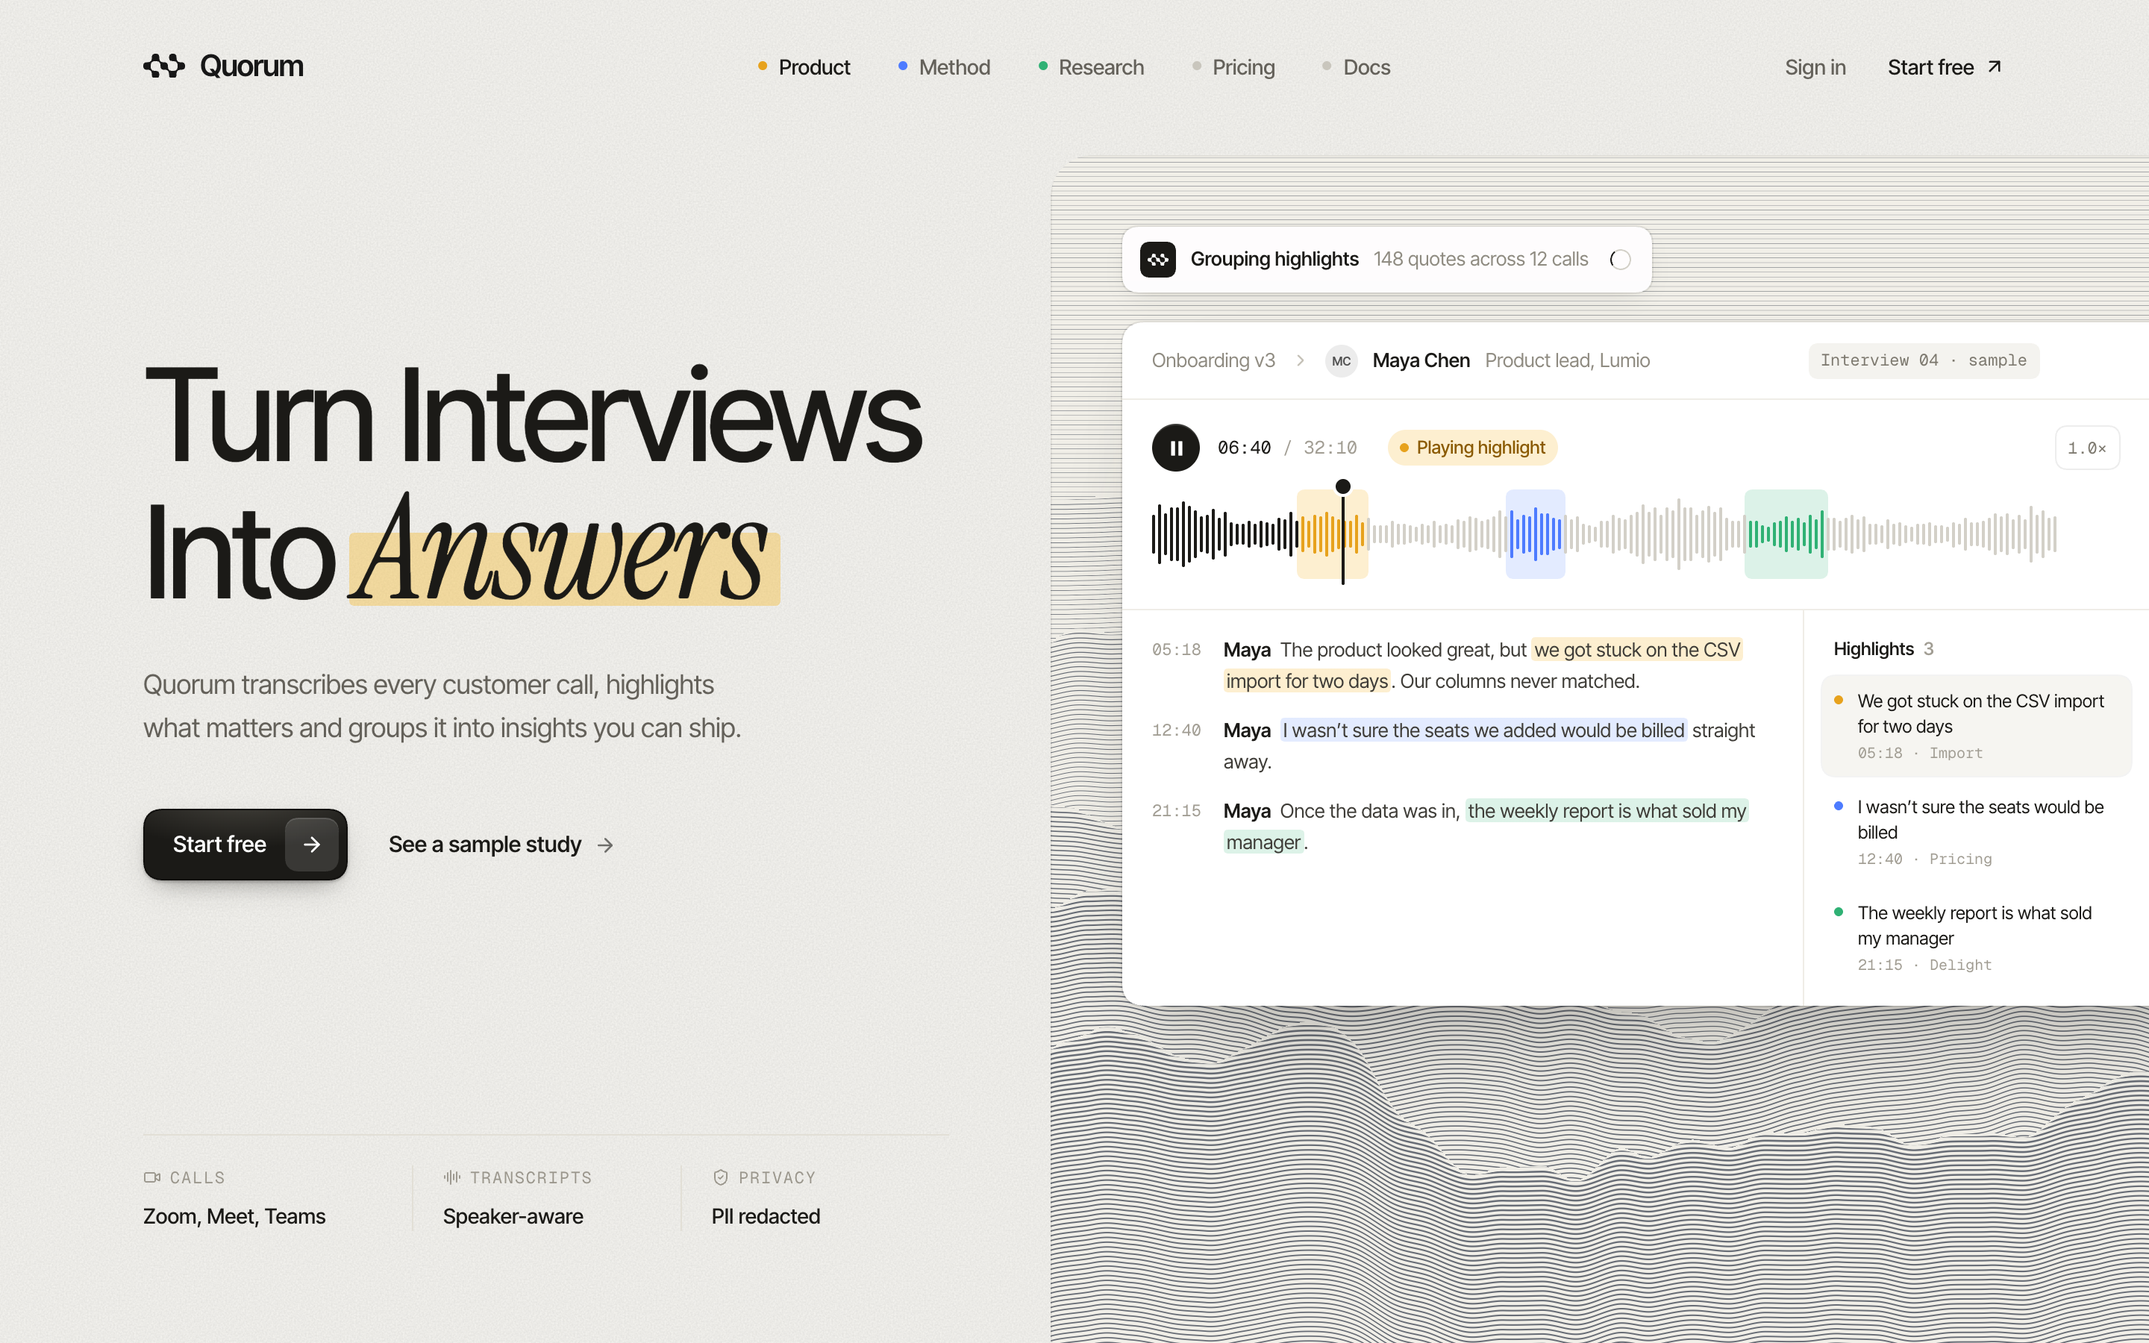
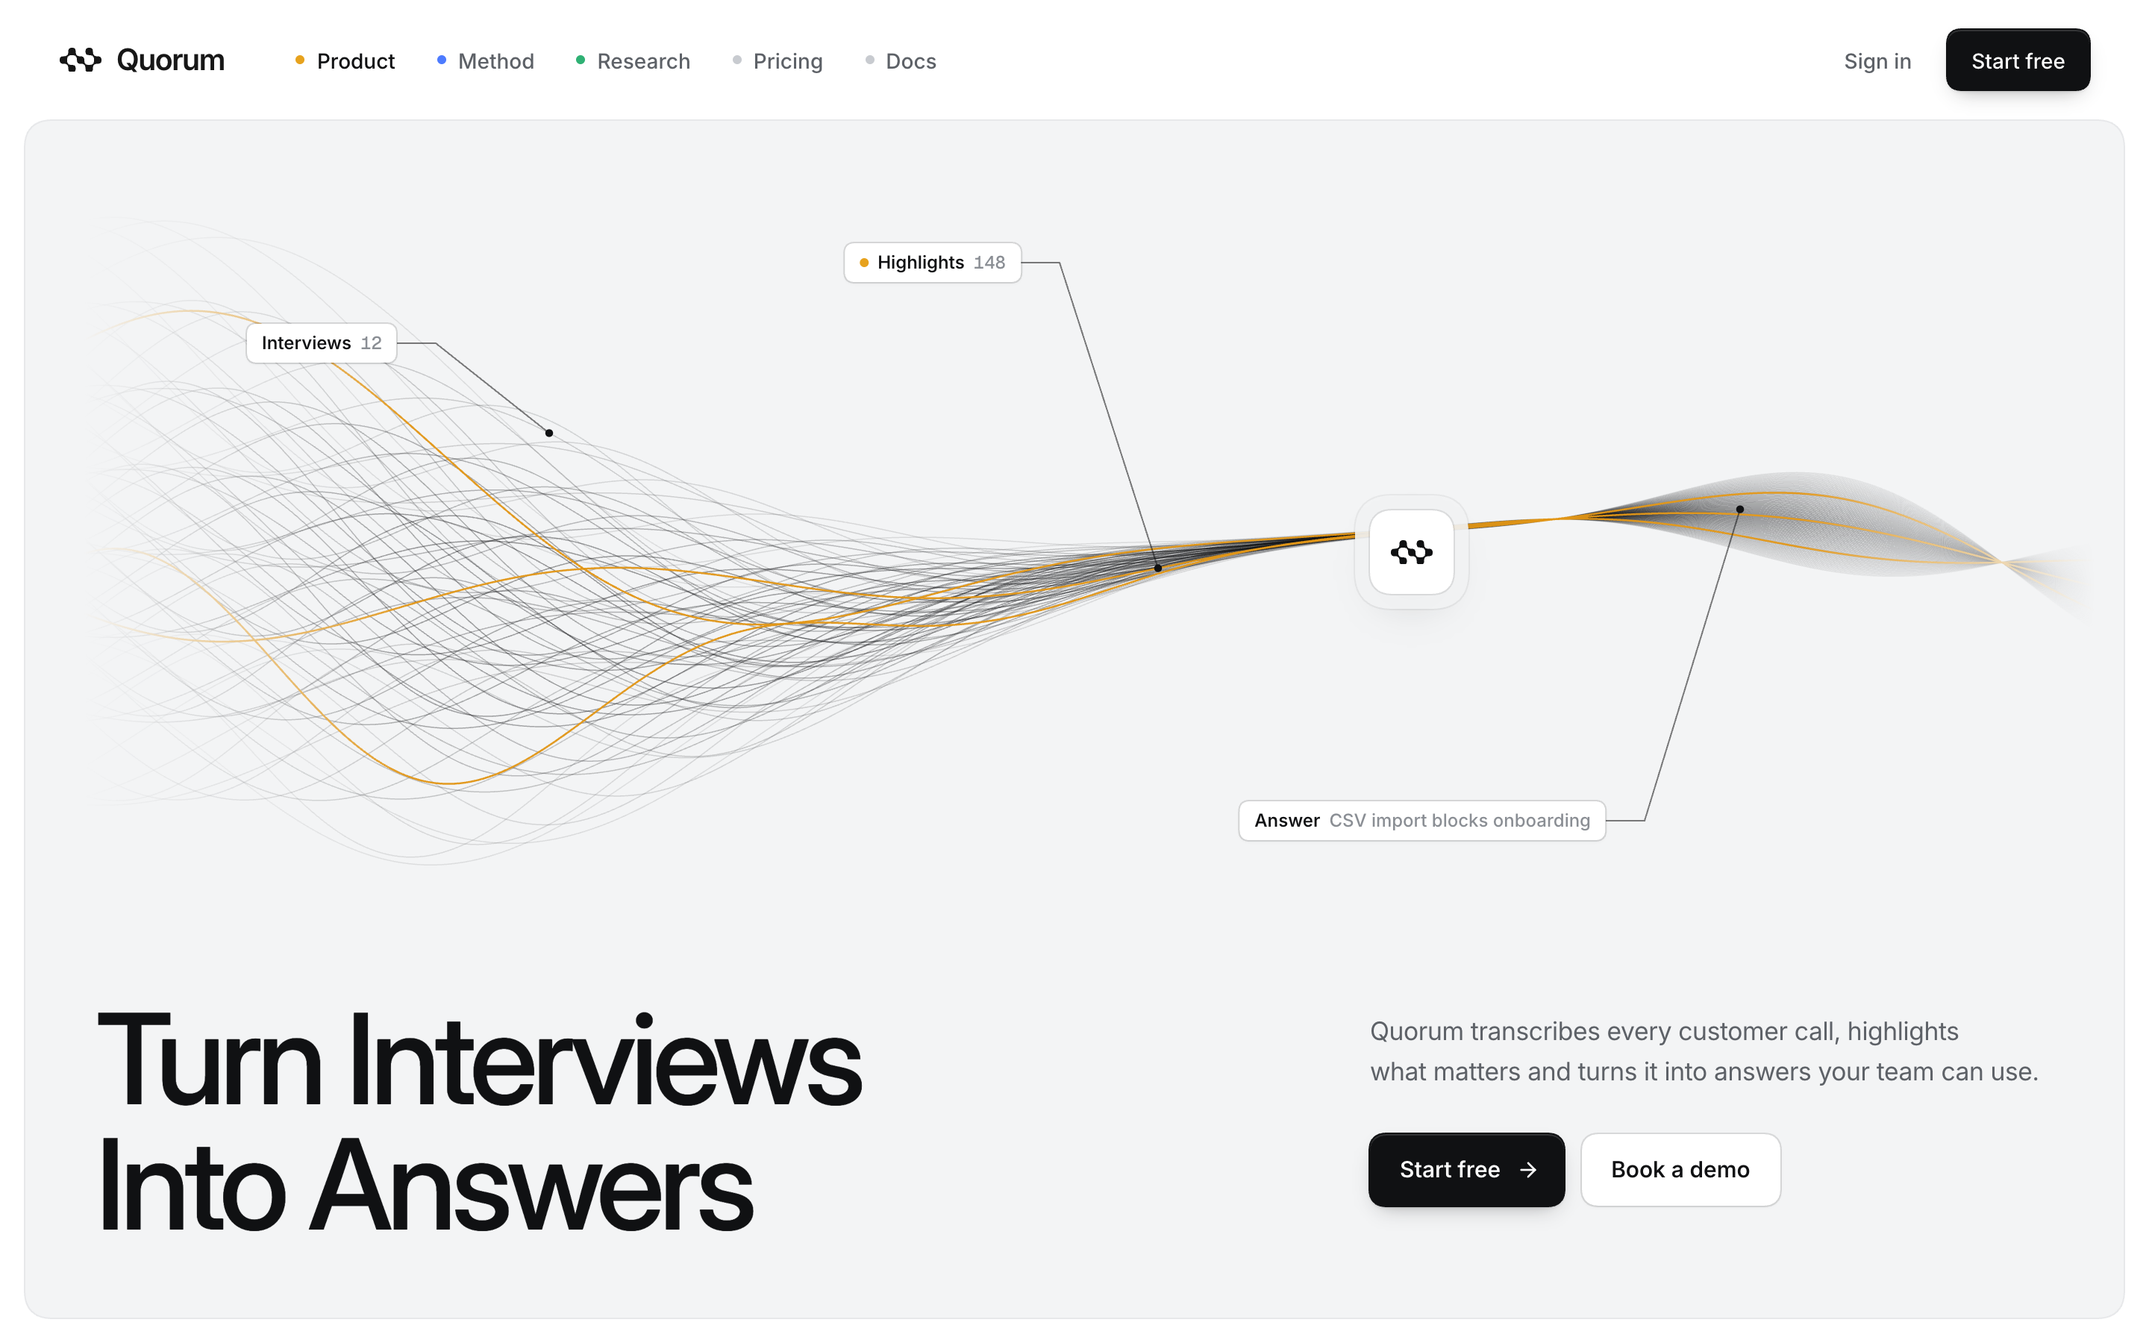
Quorum hero v4: clean Marcel/Altrina grammar (fine-line ribbon converging through the mark, bottom-left headline, square buttons); founder rule for clean/simple heroes

diff --git a/work/quorum/app/src/HeroV4.tsx b/work/quorum/app/src/HeroV4.tsx
@@ -1,0 +1,82 @@
+// Quorum hero v4 (founder 2026-10-15: "completely different... clean modern simple, Marcel, Basit style"). Marcel Kargul's
+// Altrina grammar: white page, one inset light panel; the art is a fine-line ribbon (many voices -> one answer through
+// the Quorum node) across the top with three labelled points; the headline sits bottom-left at regular weight, the
+// subtitle and two square buttons bottom-right on the node's axis. One ink, one amber for the highlighted strands.
+import type { ReactNode } from 'react'
+import { motion, MotionConfig } from 'motion/react'
+import { ArrowRight } from 'lucide-react'
+import { ease } from './motion'
+import { TAG } from './Product'
+import QuorumLogo, { QuorumMark } from './QuorumLogo'
+import Ribbon, { NODE } from './Ribbon'
+
+const T = { nav: 0.1, panel: 0.15, ribbon: 0.35, node: 1.0, h1: 0.45, sub: 0.8, cta: 0.92, chips: 2.0 }
+const INK = '#101113', SUB = '#5d6167'
+const PANEL = { x: 16, y: 80, w: 1408, h: 804 }
+const LABELS = [
+  { i: 9, x: 352, lx: 250, ly: 150, side: 'r', text: <>Interviews <b className="font-mono font-[500] text-[#8a8e94]">12</b></> },
+  { i: 35, x: 760, lx: 668, ly: 96, side: 'r', text: <><span className="size-1.5 rounded-full" style={{ background: TAG.import.dot }} />Highlights <b className="font-mono font-[500] text-[#8a8e94]">148</b></> },
+  { i: 40, x: 1150, lx: 1060, ly: 470, side: 'r', text: <>Answer <b className="font-[500] text-[#8a8e94]">CSV import blocks onboarding</b></> },
+]
+
+const Up = ({ at, y = 16, className = '', children }: { at: number; y?: number; className?: string; children: ReactNode }) => (
+  <motion.div className={className} initial={{ opacity: 0.01, y, filter: 'blur(6px)' }} animate={{ opacity: 1, y: 0, filter: 'blur(0px)' }}
+    transition={{ y: { delay: at, duration: 1.1, ease: ease.reveal }, opacity: { delay: at, duration: 0.8, ease: ease.outQuint }, filter: { delay: at, duration: 0.8 } }}>{children}</motion.div>
+)
+const Wd = ({ i, children }: { i: number; children: ReactNode }) => (
+  <motion.span className="inline-block" initial={{ opacity: 0.01, y: 40, filter: 'blur(8px)' }} animate={{ opacity: 1, y: 0, filter: 'blur(0px)' }}
+    transition={{ y: { delay: T.h1 + i * 0.07, duration: 1.2, ease: ease.reveal }, opacity: { delay: T.h1 + i * 0.07, duration: 0.8 }, filter: { delay: T.h1 + i * 0.07, duration: 0.8 } }}>{children}</motion.span>
+)
+
+function Nav() {
+  const links: [string, string][] = [['Product', TAG.import.dot], ['Method', TAG.pricing.dot], ['Research', TAG.delight.dot], ['Pricing', '#c8cbd0'], ['Docs', '#c8cbd0']]
+  return (
+    <header className="absolute inset-x-[40px] top-0 z-30 flex h-[80px] items-center">
+      <Up at={T.nav} y={-8}><a href="#" aria-label="Quorum home" className="flex h-10 items-center"><QuorumLogo /></a></Up>
+      <Up at={T.nav + 0.05} y={-8} className="ml-12">
+        <nav aria-label="Main"><ul className="flex items-center gap-7 text-[14px] font-[500]">
+          {links.map(([l, c], i) => <li key={l}><a href="#" className={`group flex h-10 items-center gap-2 transition-colors duration-200 ${i === 0 ? 'text-[#101113]' : 'text-[#5d6167] hover:text-[#101113]'}`}><span className="size-[6px] rounded-full transition-transform duration-200 group-hover:scale-125" style={{ background: c }} />{l}</a></li>)}
+        </ul></nav>
+      </Up>
+      <Up at={T.nav + 0.1} y={-8} className="ml-auto flex items-center gap-6 text-[14px] font-[500]">
+        <a href="#" className="flex h-10 items-center text-[#5d6167] transition-colors duration-200 hover:text-[#101113]">Sign in</a>
+        <a href="#" className="q-ink press flex h-10 items-center rounded-[10px] px-4 text-white">Start free</a>
+      </Up>
+    </header>
+  )
+}
+
+export default function HeroV4() {
+  return (
+    <MotionConfig reducedMotion="user">
+      <div className="relative mx-auto h-[900px] w-[1440px] overflow-hidden bg-white" style={{ color: INK, fontFamily: '"Inter Variable", system-ui, sans-serif', fontOpticalSizing: 'auto', fontFeatureSettings: '"cv11", "ss01"' }}>
+        <Nav />
+        <motion.section className="absolute overflow-hidden rounded-[20px] bg-[#f3f4f5] shadow-[inset_0_0_0_1px_#e7e8ea]" style={{ left: PANEL.x, top: PANEL.y, width: PANEL.w, height: PANEL.h }}
+          initial={{ opacity: 0 }} animate={{ opacity: 1 }} transition={{ delay: T.panel, duration: 0.8 }}>
+          <Ribbon at={T.ribbon} labels={LABELS.map(({ i, x, lx, ly }) => ({ i, x, lx, ly }))} />
+          {/* node */}
+          <motion.div className="absolute grid size-[56px] place-items-center rounded-[16px] bg-white" style={{ left: NODE.x - 28, top: NODE.y - 28, boxShadow: '0 0 0 1px rgba(16,17,19,0.1), 0 0 0 10px rgba(243,244,245,0.9), 0 0 0 11px rgba(16,17,19,0.06), 0 12px 28px -10px rgba(16,17,19,0.25)' }}
+            initial={{ opacity: 0, scale: 0.6 }} animate={{ opacity: 1, scale: 1 }} transition={{ delay: T.node, duration: 0.9, ease: ease.outExpo }}>
+            <QuorumMark width={28} />
+          </motion.div>
+          {/* labels */}
+          {LABELS.map((l, i) => (
+            <motion.span key={i} className="absolute flex h-[26px] items-center gap-1.5 whitespace-nowrap rounded-[7px] bg-white px-2.5 text-[12px] font-[550]" style={{ left: l.lx, top: l.ly - 13, translateX: l.side === 'r' ? '-100%' : 0, boxShadow: '0 0 0 1px rgba(16,17,19,0.13), 0 1px 2px rgba(16,17,19,0.05)' }}
+              initial={{ opacity: 0, y: 6 }} animate={{ opacity: 1, y: 0 }} transition={{ delay: T.chips + i * 0.12, duration: 0.6, ease: ease.outQuint }}>{l.text}</motion.span>
+          ))}
+          {/* copy */}
+          <h1 className="absolute left-[48px] top-[588px] text-[84px] font-[500] leading-[1] tracking-[-0.045em]">
+            <Wd i={0}>Turn</Wd> <Wd i={1}>Interviews</Wd><br /><Wd i={2}>Into</Wd> <Wd i={3}>Answers</Wd>
+          </h1>
+          <div className="absolute top-[598px]" style={{ left: NODE.x - 28 }}>
+            <Up at={T.sub}><p className="text-[17px] leading-[27px] tracking-[-0.01em]" style={{ color: SUB }}>Quorum transcribes every customer call, highlights<br />what matters and turns it into answers your team can use.</p></Up>
+            <Up at={T.cta} className="mt-7 flex items-center gap-3 text-[15px] font-[550]">
+              <a href="#" className="q-ink press group flex h-12 items-center gap-2.5 rounded-[12px] pl-5 pr-4 text-white">Start free<ArrowRight size={16} strokeWidth={2} className="transition-transform duration-300 group-hover:translate-x-0.5" /></a>
+              <a href="#" className="q-white press flex h-12 items-center rounded-[12px] px-5">Book a demo</a>
+            </Up>
+          </div>
+        </motion.section>
+      </div>
+    </MotionConfig>
+  )
+}

diff --git a/work/quorum/app/src/Ribbon.tsx b/work/quorum/app/src/Ribbon.tsx
@@ -1,0 +1,74 @@
+// Quorum hero v4 art (Marcel Kargul's Altrina grammar, our own story): ~70 hairline strands, one per voice, arrive loose
+// and out of phase from the left, converge through the Quorum node and leave as one calm bundle: the answer. Three strands
+// are amber (the highlighted quotes) and stay visible through the knot. Labels hang off the ribbon on elbow leaders.
+// Canvas 2D at device pixel ratio; draws in left to right on load, then breathes slowly. Reduced motion: one still frame.
+import { useEffect, useRef } from 'react'
+
+export const W = 1408, H = 560
+export const NODE = { x: 930, y: 290 }
+const N = 72, HOT = new Set([14, 35, 55])
+const sm = (a: number, b: number, x: number) => { const t = Math.min(1, Math.max(0, (x - a) / (b - a))); return t * t * (3 - 2 * t) }
+
+/** y of strand i at x, time t (also used to anchor the label leaders) */
+export function strandY(i: number, x: number, t: number) {
+  const s = (i / (N - 1)) - 0.5
+  const L = 1 - sm(60, NODE.x, x)
+  const R = sm(NODE.x, W - 40, x)
+  const shared = Math.sin(x * 0.0062 - t * 0.35) * 54 * (0.35 + 0.65 * L) + Math.sin(x * 0.0021 + 1.2) * 40 * L
+  const own = Math.sin(x * (0.009 + (i % 7) * 0.0009) + i * 0.47 + t * 0.6) * 70 * Math.pow(L, 1.1)
+  const spread = s * 300 * Math.pow(L, 1.35) + s * (4 + 92 * R) * Math.cos(x * 0.0105 - t * 0.4 - 0.9)
+  const tail = Math.sin(x * 0.006 - t * 0.3) * 46 * R
+  return NODE.y + shared * (1 - R) + own + spread + tail
+}
+
+export default function Ribbon({ at = 0.4, labels }: { at?: number; labels: { i: number; x: number; lx: number; ly: number }[] }) {
+  const ref = useRef<HTMLCanvasElement>(null)
+  useEffect(() => {
+    const cv = ref.current!, dpr = window.devicePixelRatio || 1
+    cv.width = W * dpr; cv.height = H * dpr
+    const g = cv.getContext('2d')!
+    g.scale(dpr, dpr)
+    const still = matchMedia('(prefers-reduced-motion: reduce)').matches
+    const t0 = performance.now(); let raf = 0
+    const draw = (now: number) => {
+      const s = (now - t0) / 1000, t = still ? 2 : s
+      const k = still ? 1 : Math.min(1, Math.max(0, (s - at) / 2.0)), reveal = 40 + (1 - Math.pow(1 - k, 3)) * (W + 40)
+      g.clearRect(0, 0, W, H)
+      for (let pass = 0; pass < 2; pass++) {
+        for (let i = 0; i < N; i++) {
+          const hot = HOT.has(i)
+          if ((pass === 1) !== hot) continue
+          const sp = Math.abs(i / (N - 1) - 0.5) * 2
+          g.beginPath()
+          for (let x = 40; x <= Math.min(reveal, W - 20); x += 4) {
+            const y = strandY(i, x, t)
+            x === 40 ? g.moveTo(x, y) : g.lineTo(x, y)
+          }
+          g.lineWidth = hot ? 1.25 : 0.75
+          g.strokeStyle = hot ? 'rgba(226, 150, 22, 0.95)' : `rgba(16, 17, 19, ${0.1 + 0.32 * (1 - sp)})`
+          g.stroke()
+        }
+      }
+      g.save(); g.globalCompositeOperation = 'destination-out'
+      const lg = g.createLinearGradient(40, 0, 260, 0); lg.addColorStop(0, 'rgba(0,0,0,1)'); lg.addColorStop(1, 'rgba(0,0,0,0)')
+      g.fillStyle = lg; g.fillRect(0, 0, 260, H)
+      const rg = g.createLinearGradient(W - 220, 0, W - 20, 0); rg.addColorStop(0, 'rgba(0,0,0,0)'); rg.addColorStop(1, 'rgba(0,0,0,1)')
+      g.fillStyle = rg; g.fillRect(W - 220, 0, 220, H)
+      g.restore()
+      const la = still ? 1 : Math.min(1, Math.max(0, (s - at - 1.6) / 0.6))
+      if (la > 0) {
+        g.save(); g.globalAlpha = la; g.strokeStyle = 'rgba(16,17,19,0.55)'; g.fillStyle = '#101113'; g.lineWidth = 1
+        for (const l of labels) {
+          const py = strandY(l.i, l.x, t), ex = l.lx + (l.x > l.lx ? 26 : -26)
+          g.beginPath(); g.moveTo(l.lx, l.ly); g.lineTo(ex, l.ly); g.lineTo(l.x, py); g.stroke()
+          g.beginPath(); g.arc(l.x, py, 2.6, 0, Math.PI * 2); g.fill()
+        }
+        g.restore()
+      }
+      if (!still) raf = requestAnimationFrame(draw)
+    }
+    raf = requestAnimationFrame(draw)
+    return () => cancelAnimationFrame(raf)
+  }, [at, labels])
+  return <canvas ref={ref} aria-hidden className="pointer-events-none absolute left-0 top-0" style={{ width: W, height: H }} />
+}

diff --git a/work/quorum/app/src/index.css b/work/quorum/app/src/index.css
@@ -56,3 +56,8 @@ p { text-wrap: pretty; }
 .link-draw::after { content: ""; position: absolute; left: 0; right: 0; bottom: 9px; height: 1px; background: currentColor; opacity: .5; transform: scaleX(0); transform-origin: right; transition: transform 360ms cubic-bezier(.22,1,.36,1); }
 @media (hover: hover) { .link-draw:hover::after { transform: scaleX(1); transform-origin: left; } }
 @media (prefers-reduced-motion: reduce) { .k-ink::after, .link-draw::after { transition: none; } .k-ink:hover .arrow-cycle { animation: none; } }
+
+/* ---- hero v4 buttons (Marcel: flat ink with a 1px top light, white with a hairline ring; hover moves lightness only) ---- */
+.q-ink { background: #101113; box-shadow: inset 0 1px 0 rgb(255 255 255 / .14), 0 0 0 1px #101113, 0 1px 2px rgb(16 17 19 / .2), 0 6px 14px -6px rgb(16 17 19 / .4); transition: background-color 200ms; }
+.q-white { background: #fff; color: #101113; box-shadow: 0 0 0 1px rgb(16 17 19 / .12), 0 1px 2px rgb(16 17 19 / .05); transition: background-color 200ms; }
+@media (hover: hover) { .q-ink:hover { background: #26282b; } .q-white:hover { background: #f7f8f9; } }

diff --git a/work/quorum/app/src/App.tsx b/work/quorum/app/src/App.tsx
@@ -1,5 +1,5 @@
 // Quorum: hero only (founder 2026-10-15: "JUST THE HERO"). v2 "highlighted transcript" lives in Hero.tsx.
-import Hero from './Hero'
+import Hero from './HeroV4'
 
 export default function App() {
   return <Hero />

diff --git a/knowledge/founder/founder-taste.md b/knowledge/founder/founder-taste.md
@@ -259,6 +259,9 @@ Every rule here is a direct founder verdict on real output. It outranks books, w
 - **RULE** [founder] A hero's signature visual is product UI on an art surface, not loose stickers. Build one crisp, straight product window (a real control such as a waveform scrubber with tagged ranges and a playhead, real content, a side list) sitting on a fine art panel: an engraving or etching shader in one ink, light and fine (stroke period about 3px, ink about 70% alpha, never op-art black). Add at most one floating element, and it says what the product is doing right now (a status bar). Never use tilted sheets, scattered timestamp chips or chunky halftone colour blocks. Ideas that carry meaning in small places are welcome (nav dots in the product's tag colours were "kinda cool").
   **Why** Founder on Quorum v2 (halftone waveform with big tag-colour blocks, a tilted sheet, an insight card and three flag chips): "not bad for trying actually, but it ain't professional enough, especially the visual or the little three cards... the top nav bar with circles kinda cool... the visual needs improving".
   **Applies to** split and product-proof heroes. **Check** one product window plus at most one floater; no rotated UI; the art panel has no saturated colour blocks; side-by-side with `knowledge/benchmarks/x-refs/aakib-1-v.jpg` and `split-heroes/lightfield-1440.png`. **Source** founder, Quorum v2, 2026-10-15
+- **RULE** [founder] When the founder says "clean, modern, simple, Marcel/Basit style", strip the hero to Marcel Kargul's Altrina grammar. Use a white page with one inset light panel (#f3f4f5, r20, 16px from the edges) and one fine-line art piece across its top: hairline strands that tell the product's story, with at most one accent colour and two or three small label chips on elbow leaders. Set the headline bottom-left at regular weight (Inter display 500, 84px, -0.045em), and put the subtitle and two square-ish buttons (r12, 48px; flat ink with a 1px top light, and white with a hairline ring) bottom-right on the art's focal axis. Do not add product windows, textures, grain, tilted cards or chips around the copy.
+  **Why** Founder on Quorum v3 (an engraved landscape behind an interview window): "I don't like it, I said do completely different stuff bro... clean modern simple, marcel, basit style more".
+  **Applies to** heroes where the founder asks for clean or simple. **Check** at most three things in the panel (art, headline, CTA block); one accent; side-by-side with `knowledge/benchmarks/kargul-deep/gallery/altrina-01.jpg`. **Source** founder, Quorum v3, 2026-10-15
 ## 5. Exceptions & judgement calls
 
 - The split layout (copy left, visual right) was rejected by Larpo when the right side was a decorative dashboard. With a real product world on the right (the payout globe) the founder accepted it.

diff --git a/work/quorum/DIRECTION.md b/work/quorum/DIRECTION.md
@@ -38,3 +38,11 @@ Founder on v1 (2026-10-15): "identical in style and everything to the other one.
 
 ## v3 (current): v2 with a professional visual
 Founder on v2: "not professional enough, especially the visual and the little three cards; the nav with circles is kinda cool". The art panel is now an engraved sound landscape (`Engraving.tsx`, five audio-envelope ridges hatched in slate on cream). On it sits one straight interview window: a scrubber whose highlight ranges sit at their real timestamps, a playhead in the import highlight, the transcript with marks, and a highlights list. One status bar ("Grouping highlights") floats above. The tilted sheet, flag chips and halftone are gone (`VoiceField.tsx` is kept as v2 evidence). The grain sits under the stage so the product stays pure white.
+
+## v4 (current): clean Marcel grammar
+Founder on v3: "do completely different stuff... clean modern simple, Marcel, Basit style". Built on Altrina (`knowledge/benchmarks/kargul-deep/gallery/altrina-01.jpg`):
+- **Page:** white, with one inset panel (#f3f4f5, r20).
+- **Art:** `Ribbon.tsx`, 72 hairline strands (one per voice) arriving loose from the left. They converge through the Quorum node (a white r16 tile) and leave as one twisting bundle, the answer. Three amber strands are the highlighted quotes, and three label chips sit on elbow leaders (Interviews 12, Highlights 148, Answer).
+- **Copy:** the h1 is bottom-left (Inter display 500/84/-0.045em). The subtitle and the r12 ink/white buttons sit on the node's x axis.
+- **Nav:** the dot nav is kept from v2.
+- **History:** `HeroV4.tsx` is current; `Hero.tsx` (v2/v3) is kept as history.
